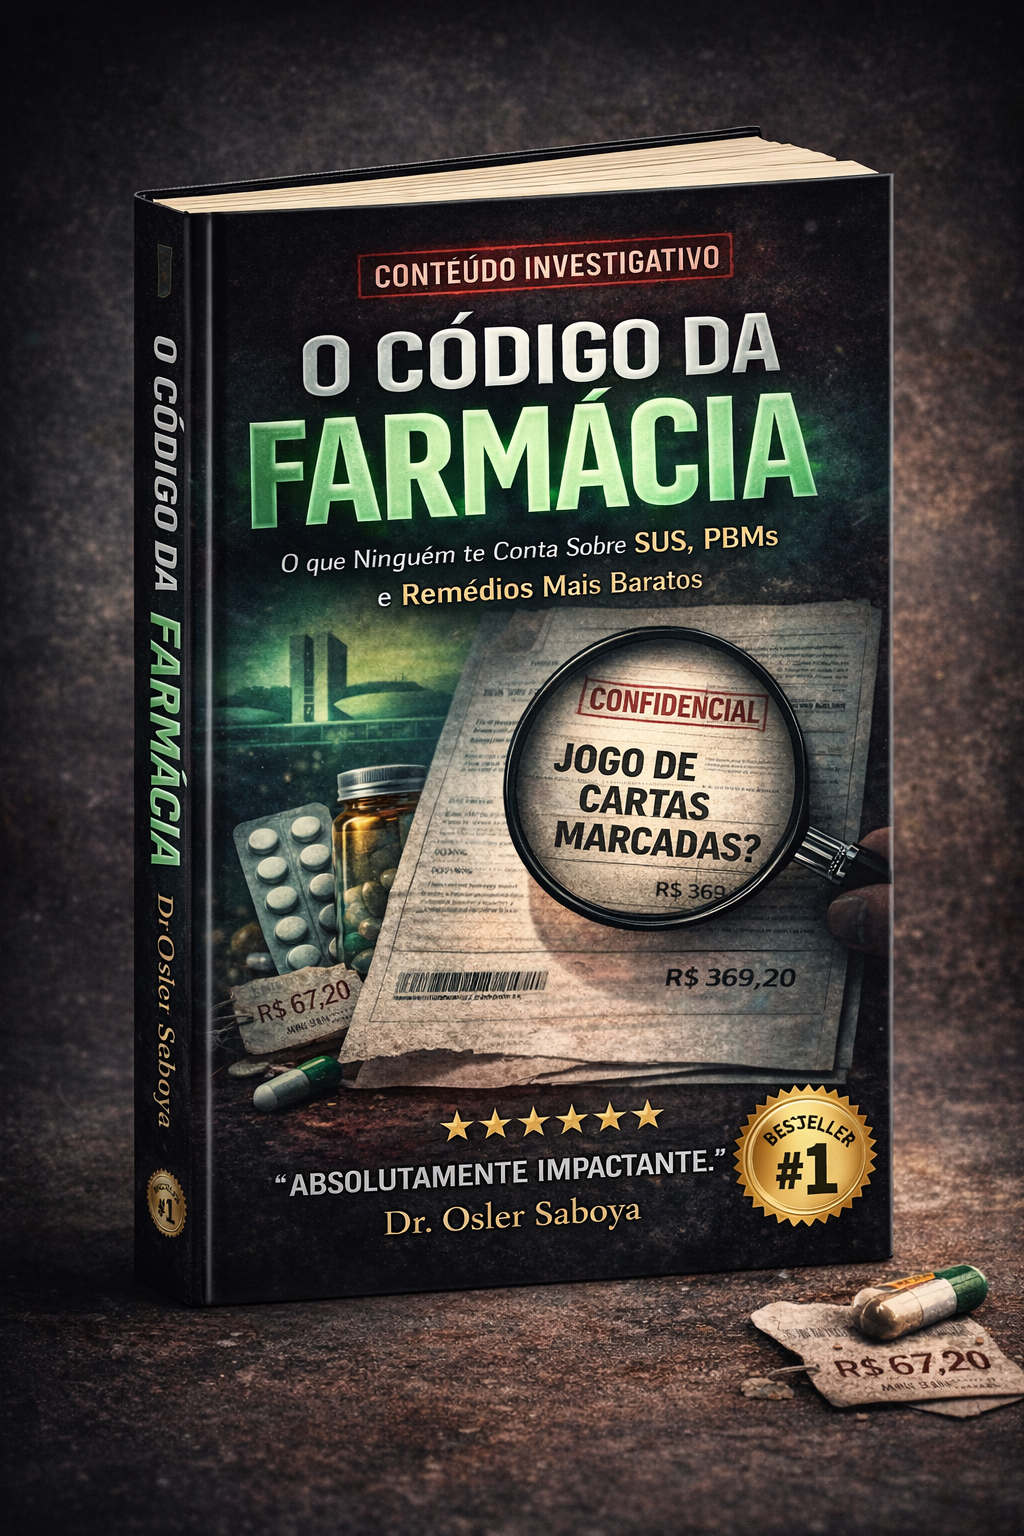
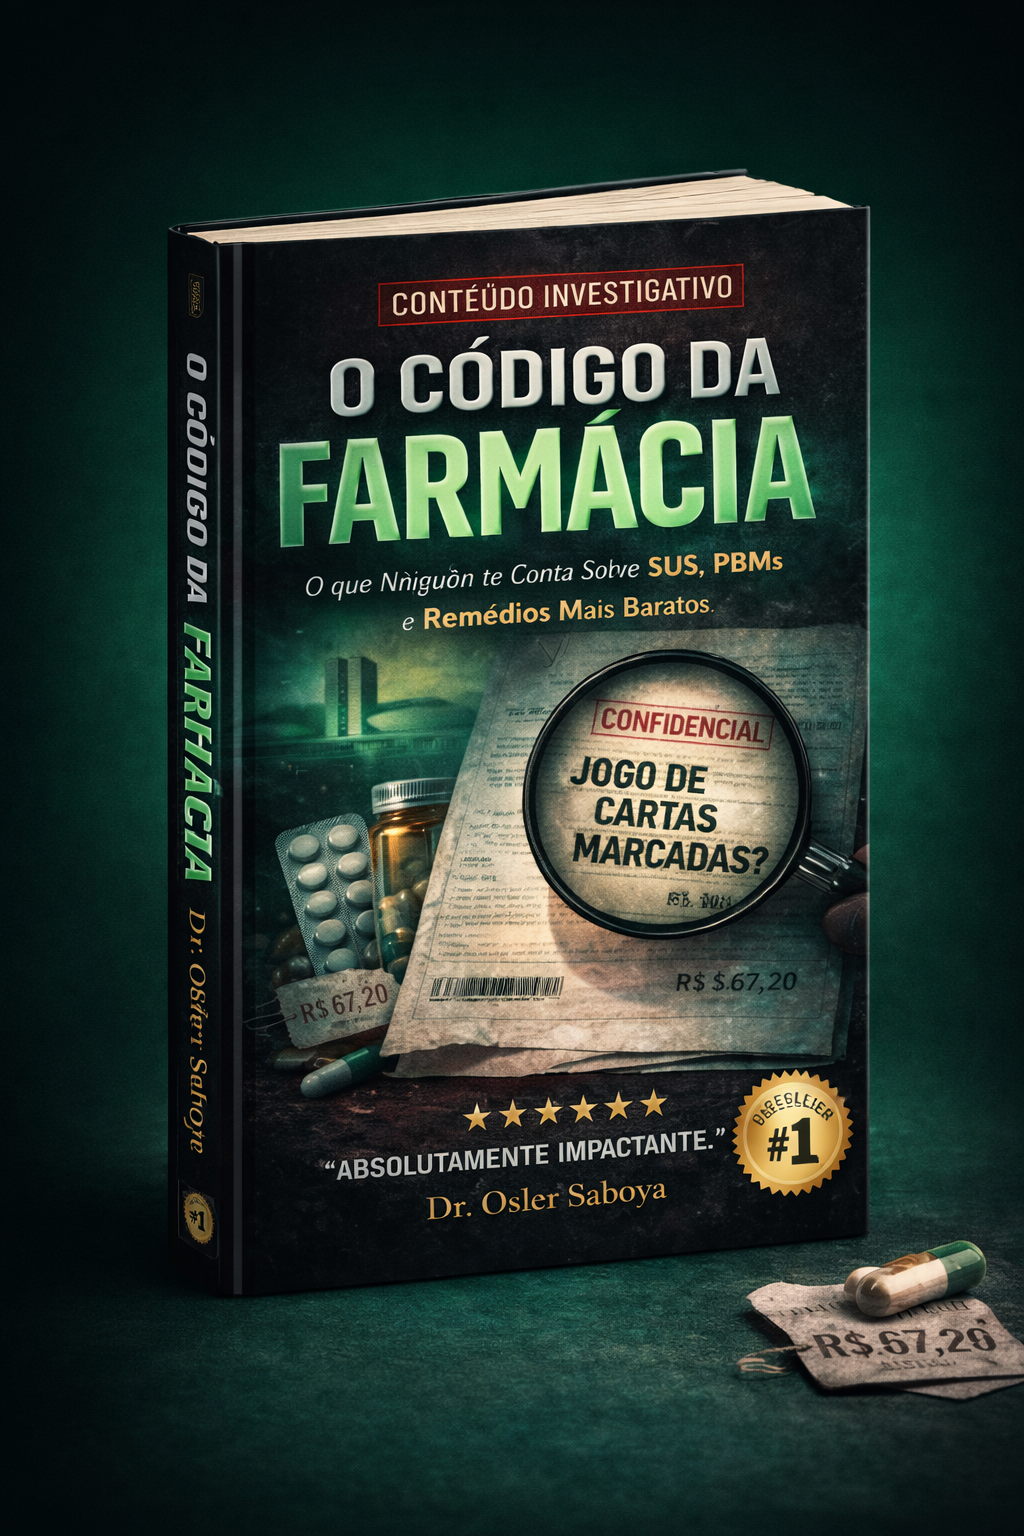
Changes

diff --git a/src/pages/Ebook.tsx b/src/pages/Ebook.tsx
@@ -831,22 +831,34 @@ const Ebook = () => {
 
             {/* Left — 3D book mockup */}
             <SR delay={0.08} className="flex items-center justify-center">
-              <div className="relative">
-                {/* Radial glow */}
+              <div className="relative flex items-center justify-center">
+                {/* Deep radial glow — matches the teal/emerald bg of the book image */}
                 <div
-                  className="absolute inset-0 rounded-full blur-3xl scale-110 pointer-events-none"
-                  style={{ background: "hsl(var(--emerald)/0.18)" }}
+                  className="absolute w-[110%] h-[110%] rounded-full blur-3xl pointer-events-none"
+                  style={{
+                    background: "radial-gradient(ellipse at 50% 70%, rgba(6,50,35,0.95) 0%, rgba(7,10,13,0.0) 70%)",
+                    zIndex: 0,
+                  }}
+                />
+                {/* Outer ambient glow */}
+                <div
+                  className="absolute w-[85%] h-[85%] rounded-full blur-2xl pointer-events-none"
+                  style={{ background: "hsl(var(--emerald)/0.12)", zIndex: 0 }}
                 />
                 <motion.div
                   animate={{ y: [0, -14, 0] }}
                   transition={{ duration: 5, repeat: Infinity, ease: "easeInOut" }}
-                  className="relative"
-                  style={{ filter: "drop-shadow(0 40px 80px rgba(16,185,129,0.30)) drop-shadow(0 10px 30px rgba(0,0,0,0.8))" }}
+                  className="relative z-10"
+                  style={{
+                    filter: "drop-shadow(0 50px 90px rgba(4,30,20,0.98)) drop-shadow(0 8px 32px rgba(16,185,129,0.18))",
+                  }}
                 >
                   <img
                     src={ebookCover3D}
                     alt="Mockup 3D do E-book: O Código da Farmácia"
-                    className="w-64 md:w-80 lg:w-96 object-contain"
+                    className="w-64 md:w-80 lg:w-[22rem] object-contain select-none"
+                    style={{ mixBlendMode: "normal" }}
+                    draggable={false}
                   />
                 </motion.div>
               </div>
